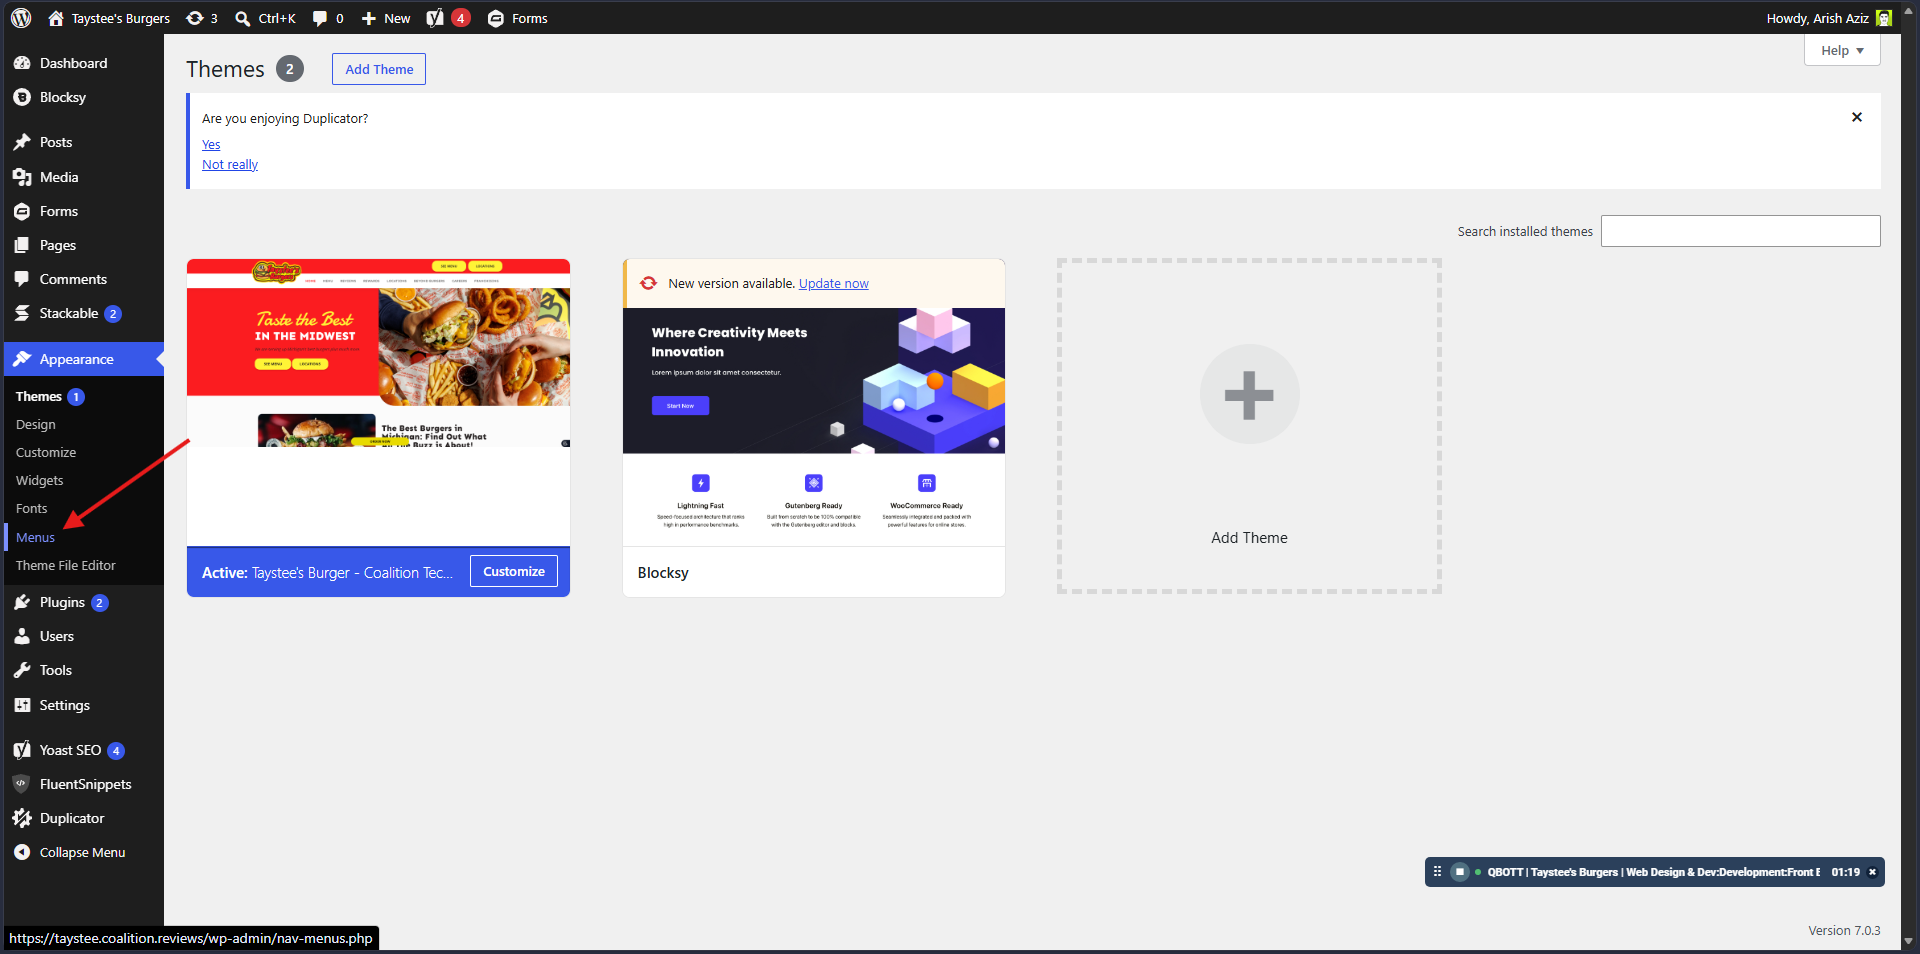
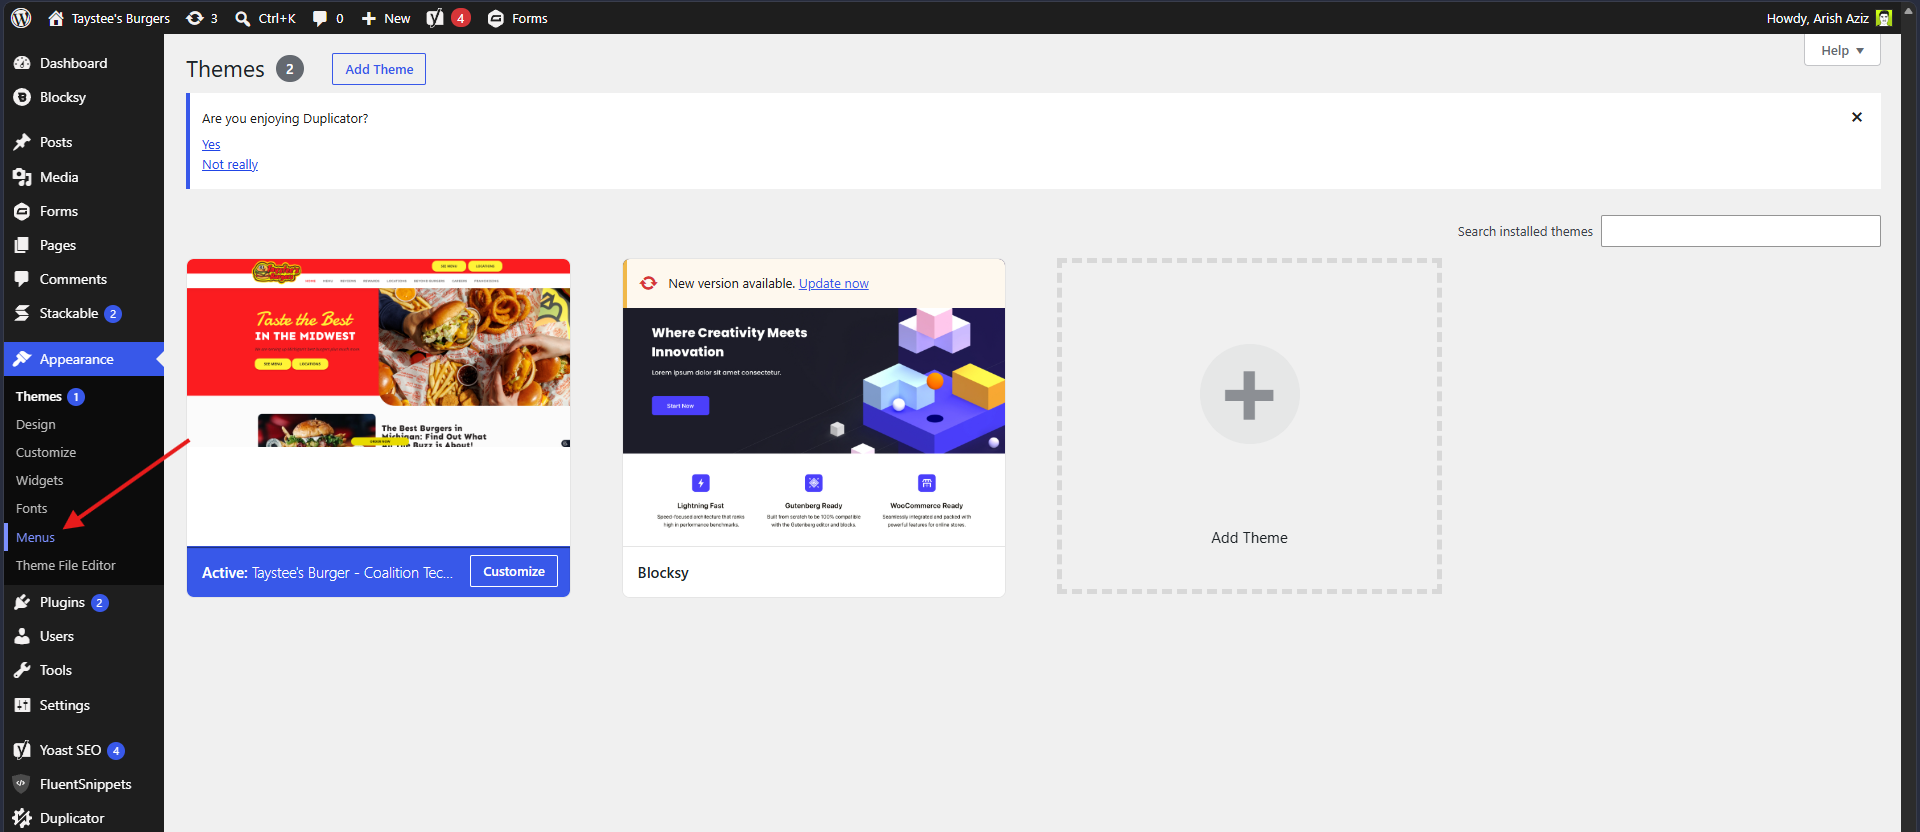
update: refresh build date in index.html and update menu images

diff --git a/site/index.html b/site/index.html
@@ -222,5 +222,5 @@
 <script id="init-glightbox">const lightbox = GLightbox({"touchNavigation": true, "loop": false, "zoomable": true, "draggable": true, "openEffect": "zoom", "closeEffect": "zoom", "slideEffect": "slide"});
 </script></body></html><!--
 MkDocs version : 1.6.1
-Build Date UTC : 2026-08-10 15:23:37.311478+00:00
+Build Date UTC : 2026-08-10 15:32:07.477176+00:00
 -->
